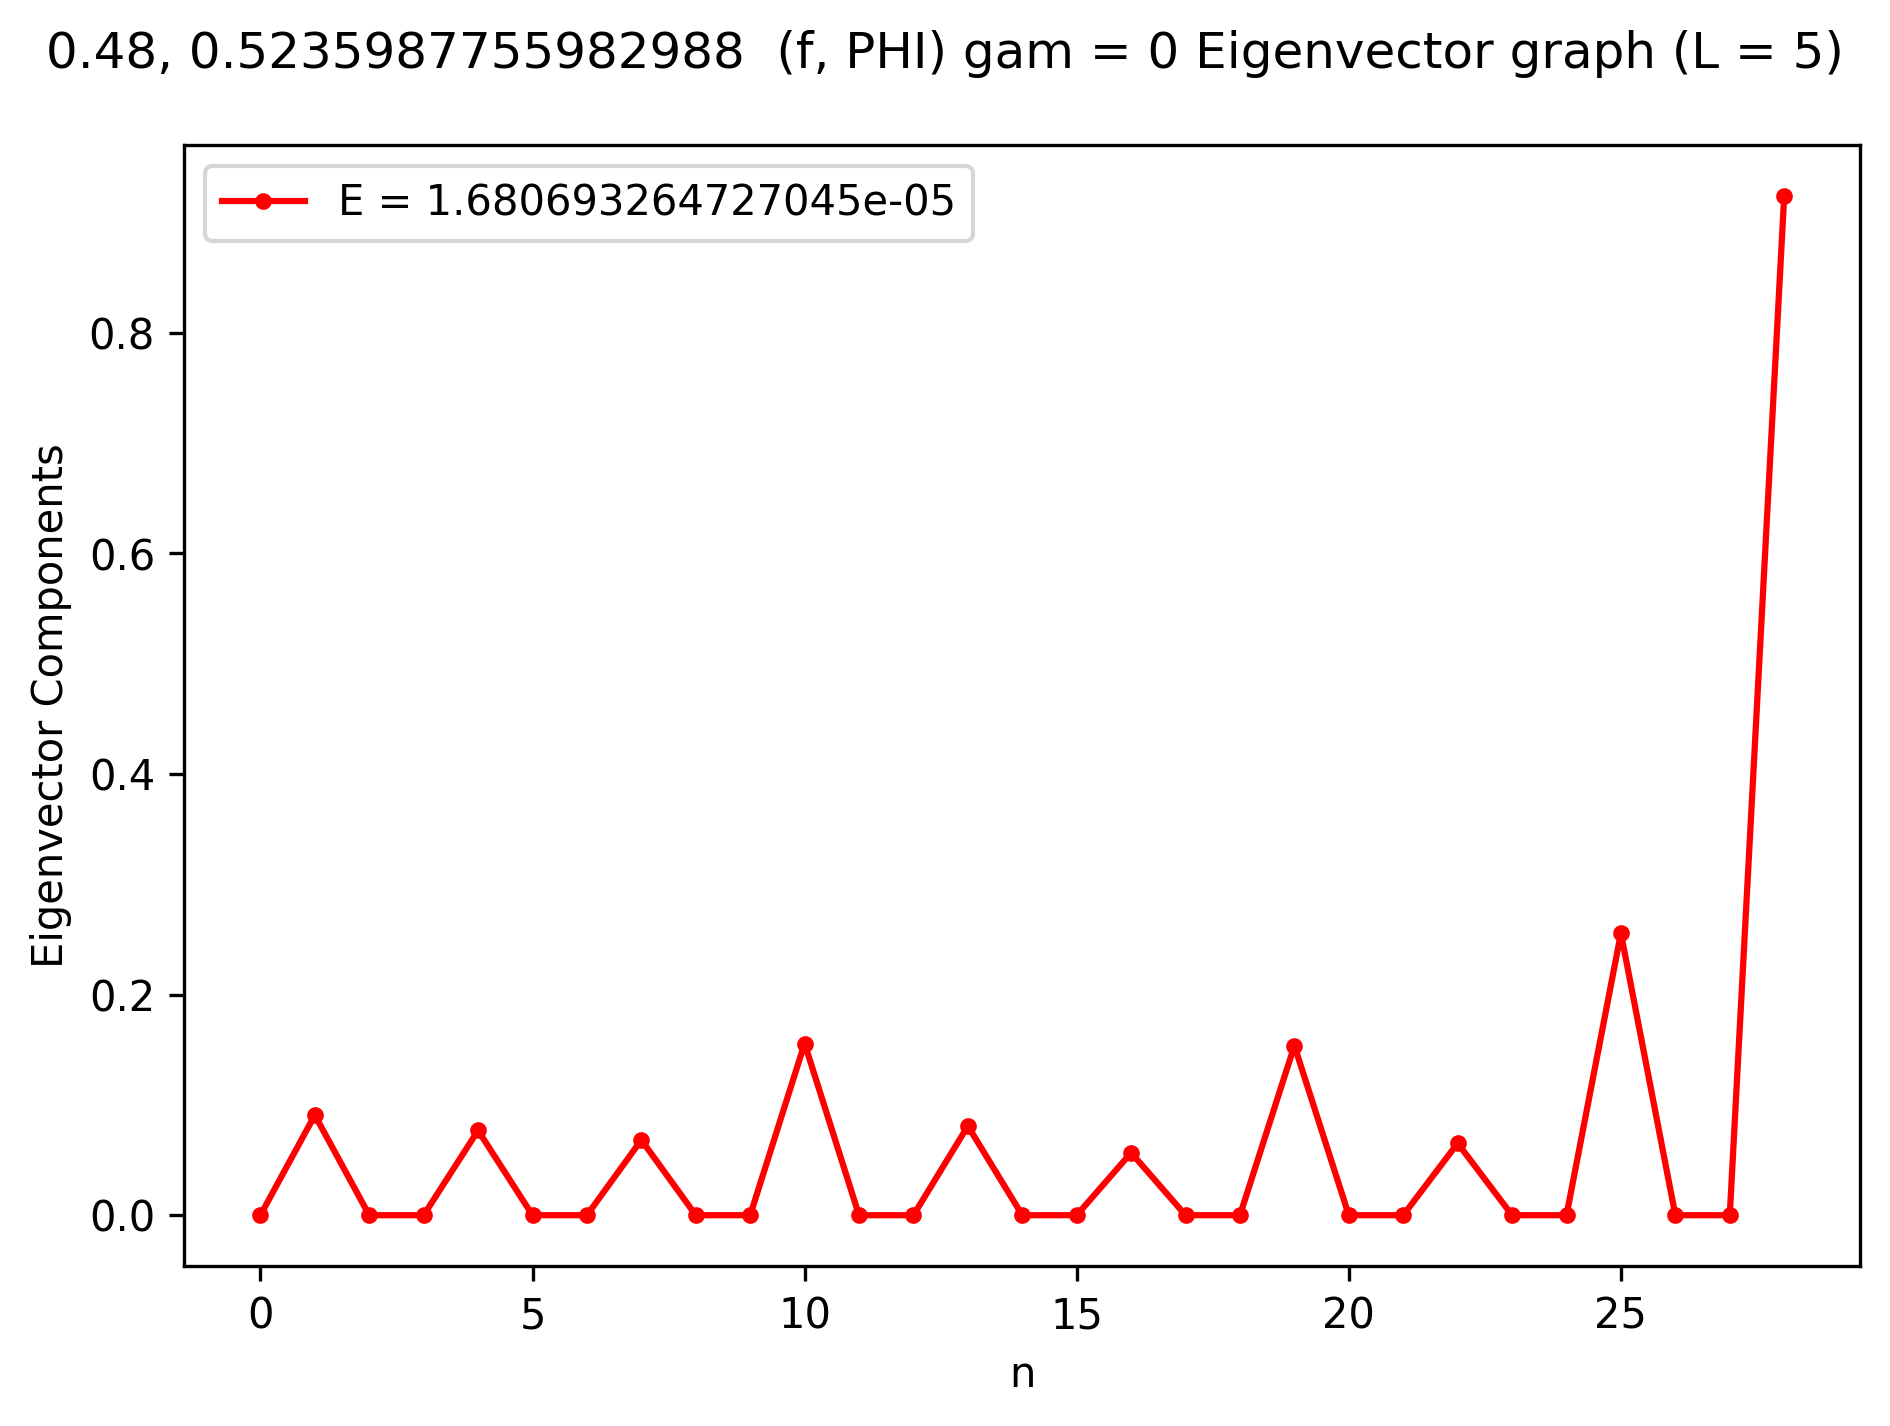
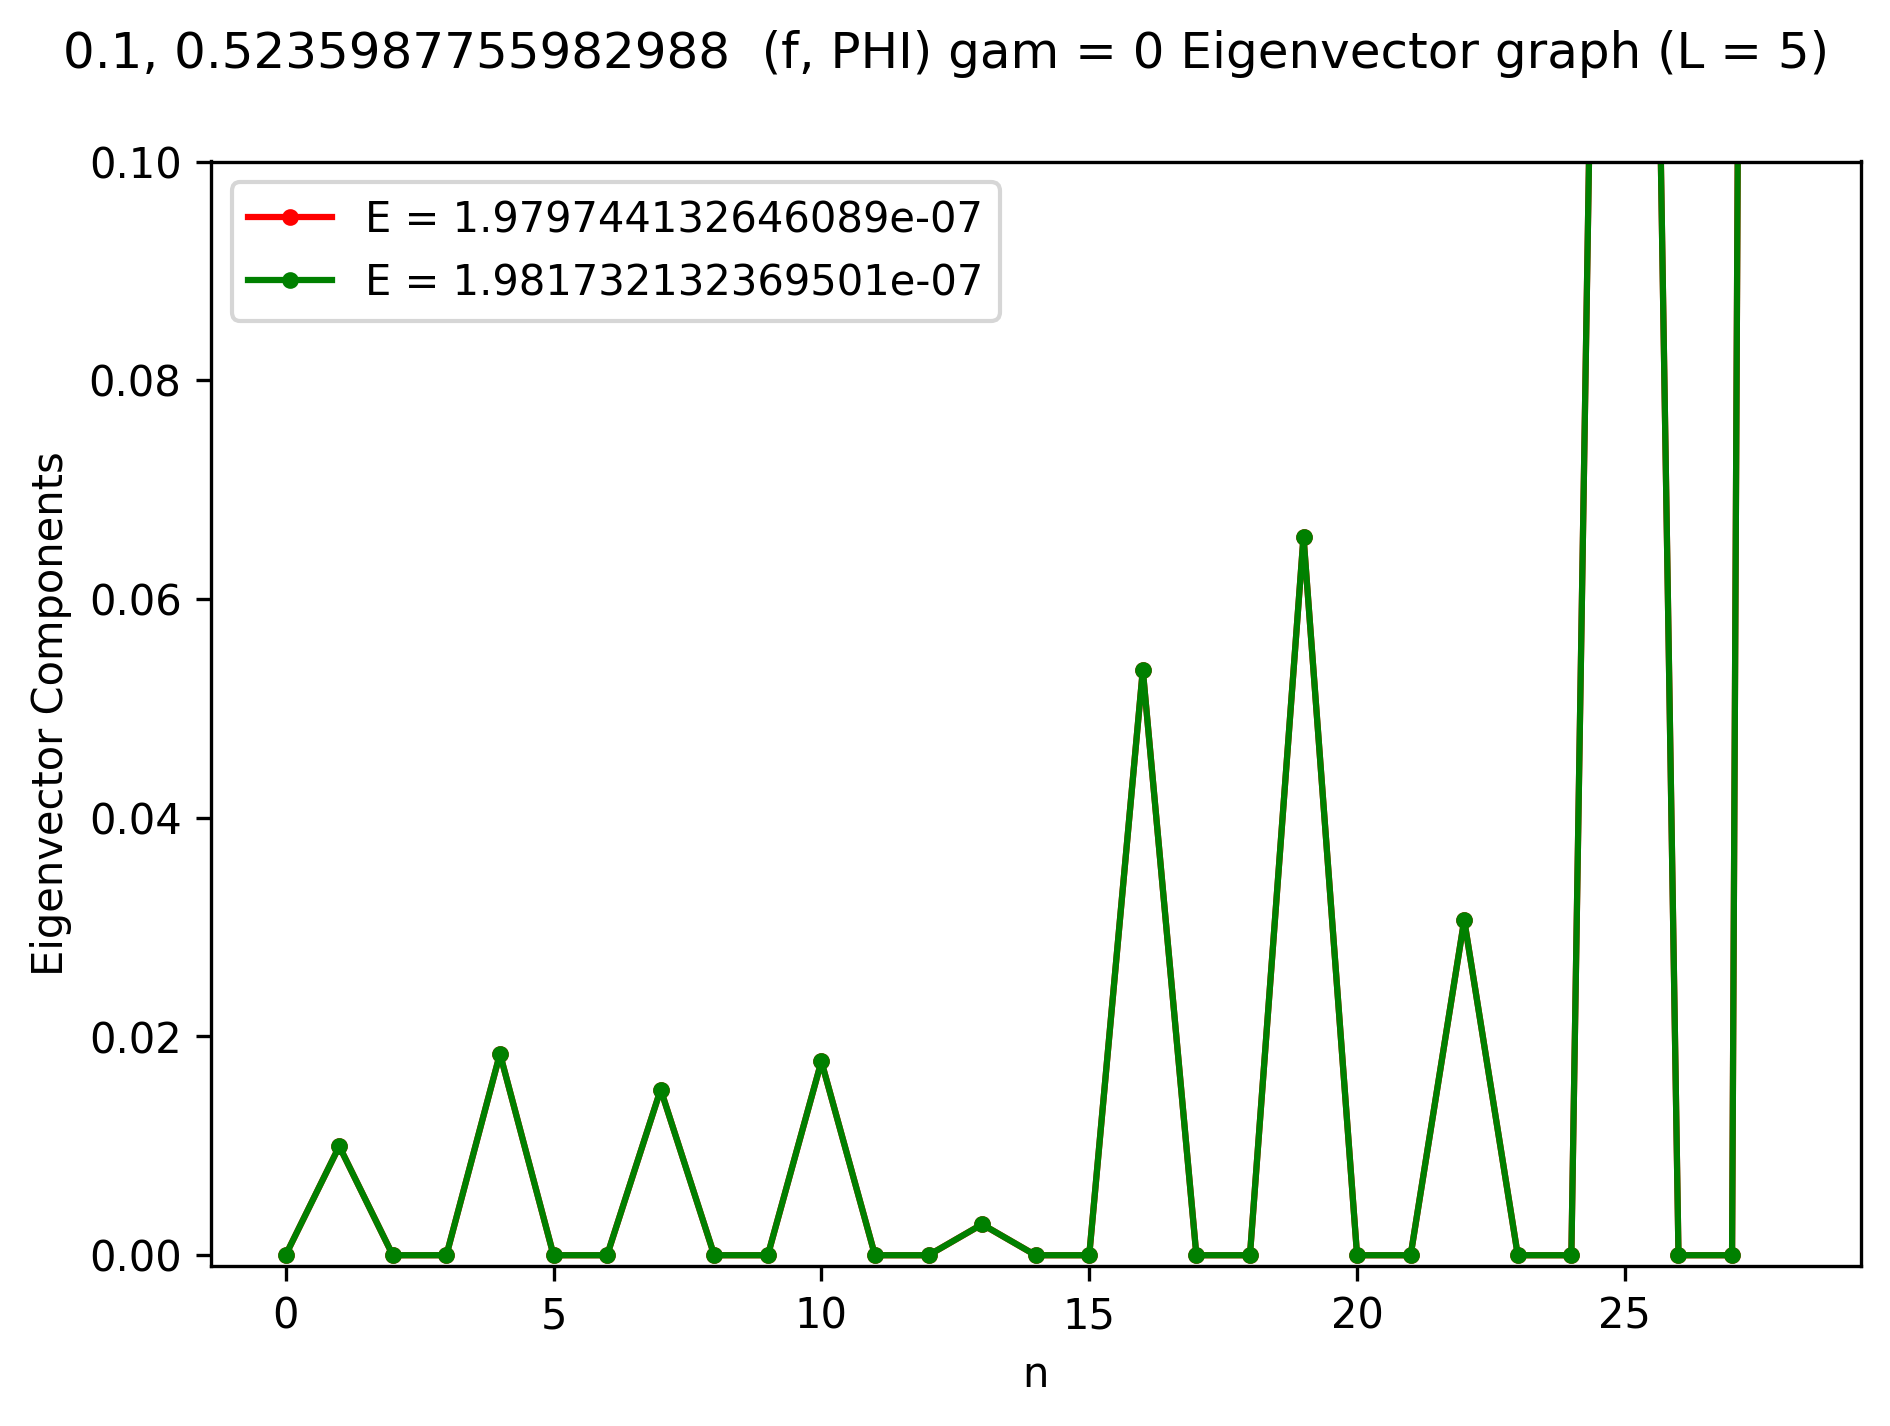
Fixed up code to produce Right Eigenvector graph for Krylov Matrix. Different graphs were added

diff --git a/CODES/Z3_CODE/laczos_coeff_sim.py b/CODES/Z3_CODE/laczos_coeff_sim.py
@@ -43,7 +43,9 @@ def LACZOS_COEF_vary_gam_SIM(n, size, gamma, params):
     #plt.plot(np.array(in_list), np.array(b_values), marker = ".", linestyle = '-', color = 'r', label = 'Recursive')
     #plt.plot(np.array(in_list_2), np.array(b_values_2), marker = ".", linestyle = '-', color = 'g', label = 'GS')
     F = matrix_final.real
-    plt.imshow(F, cmap='viridis', aspect='auto')
+    plt.imshow(F, cmap='seismic', aspect='auto')
+    plt.clim(-np.max(np.abs(F)), np.max(np.abs(F)))
+    #plt.clim(-0.05, 0.05)
     plt.colorbar(label='Value')  # ← this adds the side bar
     plt.title(title)
     plt.xlabel('Column Index')
@@ -61,22 +63,36 @@ def LACZOS_COEF_vary_gam_SIM(n, size, gamma, params):
         A, U = np.linalg.eigh(matrix_final)
         in_list = np.arange(0, n+1, 1)
         EIG_STATE = np.abs(U[:, np.argmin(np.abs(A))])
+        sorted = np.sort(np.abs(A))
+        EIG_STATE_2 = np.abs(U[:, np.abs(A).argsort()[1]])  # Second smallest eigenvalue
         EIG_STATE = (1/np.linalg.norm(EIG_STATE)) * EIG_STATE
+        EIG_STATE_2 = (1/np.linalg.norm(EIG_STATE_2)) * EIG_STATE_2
 
     else:
         A, U = np.linalg.eig(matrix_final)
+        #print(np.imag(A))
         in_list = np.arange(0, n+1, 1)
         EIG_STATE = np.abs(U[:, np.argmin(np.abs(A))])
+        sorted = np.sort(np.abs(A))
+        EIG_STATE_2 = np.abs(U[:, np.abs(A).argsort()[1]])
         EIG_STATE = (1/np.linalg.norm(EIG_STATE)) * EIG_STATE
-
+        EIG_STATE_2 = (1/np.linalg.norm(EIG_STATE_2)) * EIG_STATE_2
+        Abs_A = np.abs(A)
 
     plt.subplot()
     plt.plot(in_list, EIG_STATE, marker = ".", linestyle = '-', color = 'r', label = 'E = ' + str(np.min(np.abs(A))))
+    plt.plot(in_list, EIG_STATE_2, marker = ".", linestyle = '-', color = 'g', label = 'E = ' + str(sorted[1]))
     title = str(params[0]) + ", " + str(params[1]) + "  " + "(f, PHI)" + " gam = " + str(gamma) + " Eigenvector graph (L = " + str(size) + ")"
     plt.suptitle(title)
     plt.xlabel("n")
     plt.ylabel("Eigenvector Components")
-    #plt.ylim(0, 0.05)
+    plt.ylim(-.001, 0.1)
     plt.legend()
     plt.tight_layout()
     plt.savefig("eigenval_graphs_krylov_matrix.png", dpi=300, bbox_inches='tight')
+
+
+    # plt.figure()
+    # plt.plot(in_list, Abs_A, marker = ".")
+    # plt.tight_layout()
+    # plt.show()

diff --git a/CODES/Z3_CODE/main.py b/CODES/Z3_CODE/main.py
@@ -31,4 +31,5 @@ L_array = [5, 6, 7, 8]
 
 #size_autocorrelator_SIMULATION_NPY(0, 30, .5, L_array, array_parameters[int(sys.argv[1])], 1)
 
-LACZOS_COEF_vary_gam_SIM(28, 5, 0, [0.48, np.pi/6])
+LACZOS_COEF_vary_gam_SIM(28, 5, 0, [0.1, np.pi/6])
+#LACZOS_COEF_vary_gam_SIM(28, 5, 0, [0.1, 0])
